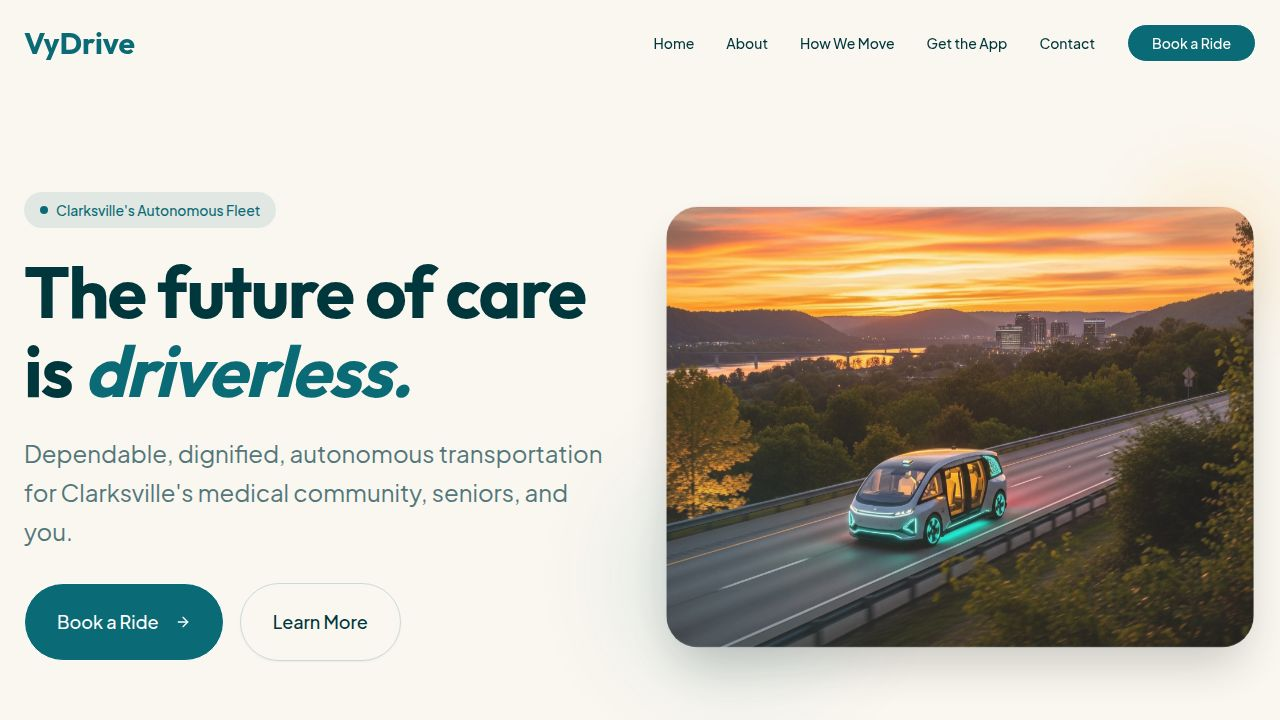
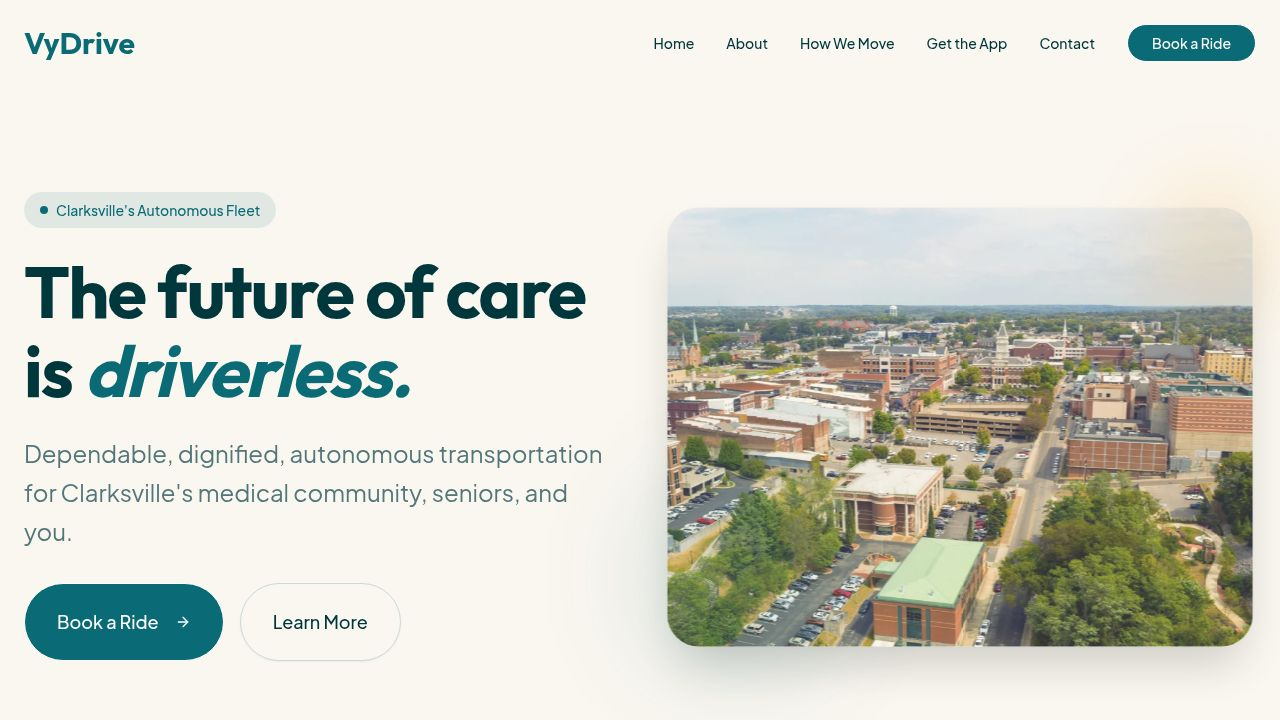
Update contact form to securely handle user submissions and improve validation
Removes Zod validation, implements manual input validation, and secures the Resend API key as an environment variable.

Replit-Commit-Author: Agent
Replit-Commit-Session-Id: 64d2f2bf-7a9f-4de3-87ff-ccdf834d337e
Replit-Commit-Checkpoint-Type: full_checkpoint
Replit-Commit-Event-Id: 88615d43-fb1f-4936-a883-029501e2fddd
Replit-Commit-Screenshot-Url: https://storage.googleapis.com/screenshot-production-us-central1/eb54d82b-2595-452e-9bbe-8ba7b473c846/64d2f2bf-7a9f-4de3-87ff-ccdf834d337e/1OIrfgt
Replit-Helium-Checkpoint-Created: true

diff --git a/artifacts/api-server/src/routes/contact.ts b/artifacts/api-server/src/routes/contact.ts
@@ -1,61 +1,58 @@
 import { Router } from "express";
 import { Resend } from "resend";
-import { z } from "zod";
 
 const router = Router();
 
-const contactSchema = z.object({
-  name: z.string().min(2),
-  email: z.string().email(),
-  subject: z.string().min(1),
-  message: z.string().min(10),
-});
+const VALID_SUBJECTS = ["general", "partnership", "investor", "media"] as const;
+const SUBJECT_LABELS: Record<string, string> = {
+  general: "General Inquiry",
+  partnership: "Partnership",
+  investor: "Investor Relations",
+  media: "Media / Press",
+};
 
 router.post("/contact", async (req, res) => {
-  const parsed = contactSchema.safeParse(req.body);
-  if (!parsed.success) {
-    res.status(400).json({ error: "Invalid form data", details: parsed.error.issues });
+  const { name, email, subject, message } = req.body ?? {};
+
+  if (
+    typeof name !== "string" || name.trim().length < 2 ||
+    typeof email !== "string" || !/^[^\s@]+@[^\s@]+\.[^\s@]+$/.test(email) ||
+    typeof subject !== "string" || !(VALID_SUBJECTS as readonly string[]).includes(subject) ||
+    typeof message !== "string" || message.trim().length < 10
+  ) {
+    res.status(400).json({ error: "Invalid form data. Please check all fields." });
     return;
   }
-
-  const { name, email, subject, message } = parsed.data;
 
   const apiKey = process.env["RESEND_API_KEY"];
   if (!apiKey) {
     req.log.error("RESEND_API_KEY is not set");
-    res.status(500).json({ error: "Email service is not configured" });
+    res.status(500).json({ error: "Email service is not configured." });
     return;
   }
 
   const resend = new Resend(apiKey);
-
-  const subjectLabels: Record<string, string> = {
-    general: "General Inquiry",
-    partnership: "Partnership",
-    investor: "Investor Relations",
-    media: "Media / Press",
-  };
-  const subjectLabel = subjectLabels[subject] ?? subject;
+  const subjectLabel = SUBJECT_LABELS[subject] ?? subject;
 
   try {
     await resend.emails.send({
       from: "VyDrive Contact <[email redacted]>",
       to: ["[email redacted]"],
-      replyTo: email,
-      subject: `[VyDrive] ${subjectLabel} from ${name}`,
+      replyTo: email.trim(),
+      subject: `[VyDrive] ${subjectLabel} from ${name.trim()}`,
       html: `
-        <div style="font-family: sans-serif; max-width: 600px; margin: 0 auto;">
-          <h2 style="color: #0d7d74;">New VyDrive Contact Form Submission</h2>
-          <table style="width: 100%; border-collapse: collapse;">
-            <tr><td style="padding: 8px 0; font-weight: bold; color: #555;">Name:</td><td style="padding: 8px 0;">${name}</td></tr>
-            <tr><td style="padding: 8px 0; font-weight: bold; color: #555;">Email:</td><td style="padding: 8px 0;"><a href="mailto:${email}">${email}</a></td></tr>
-            <tr><td style="padding: 8px 0; font-weight: bold; color: #555;">Subject:</td><td style="padding: 8px 0;">${subjectLabel}</td></tr>
+        <div style="font-family:sans-serif;max-width:600px;margin:0 auto;">
+          <h2 style="color:#0d7d74;">New VyDrive Contact Form Submission</h2>
+          <table style="width:100%;border-collapse:collapse;">
+            <tr><td style="padding:8px 0;font-weight:bold;color:#555;width:80px;">Name:</td><td style="padding:8px 0;">${name.trim()}</td></tr>
+            <tr><td style="padding:8px 0;font-weight:bold;color:#555;">Email:</td><td style="padding:8px 0;"><a href="mailto:${email.trim()}">${email.trim()}</a></td></tr>
+            <tr><td style="padding:8px 0;font-weight:bold;color:#555;">Subject:</td><td style="padding:8px 0;">${subjectLabel}</td></tr>
           </table>
-          <hr style="border: 1px solid #eee; margin: 16px 0;" />
-          <h3 style="color: #555;">Message:</h3>
-          <p style="line-height: 1.6; color: #333;">${message.replace(/\n/g, "<br/>")}</p>
-          <hr style="border: 1px solid #eee; margin: 16px 0;" />
-          <p style="font-size: 12px; color: #999;">Sent via vydrive.com contact form</p>
+          <hr style="border:1px solid #eee;margin:16px 0;"/>
+          <h3 style="color:#555;">Message:</h3>
+          <p style="line-height:1.6;color:#333;">${message.trim().replace(/\n/g, "<br/>")}</p>
+          <hr style="border:1px solid #eee;margin:16px 0;"/>
+          <p style="font-size:12px;color:#999;">Sent via vydrive.com contact form</p>
         </div>
       `,
     });